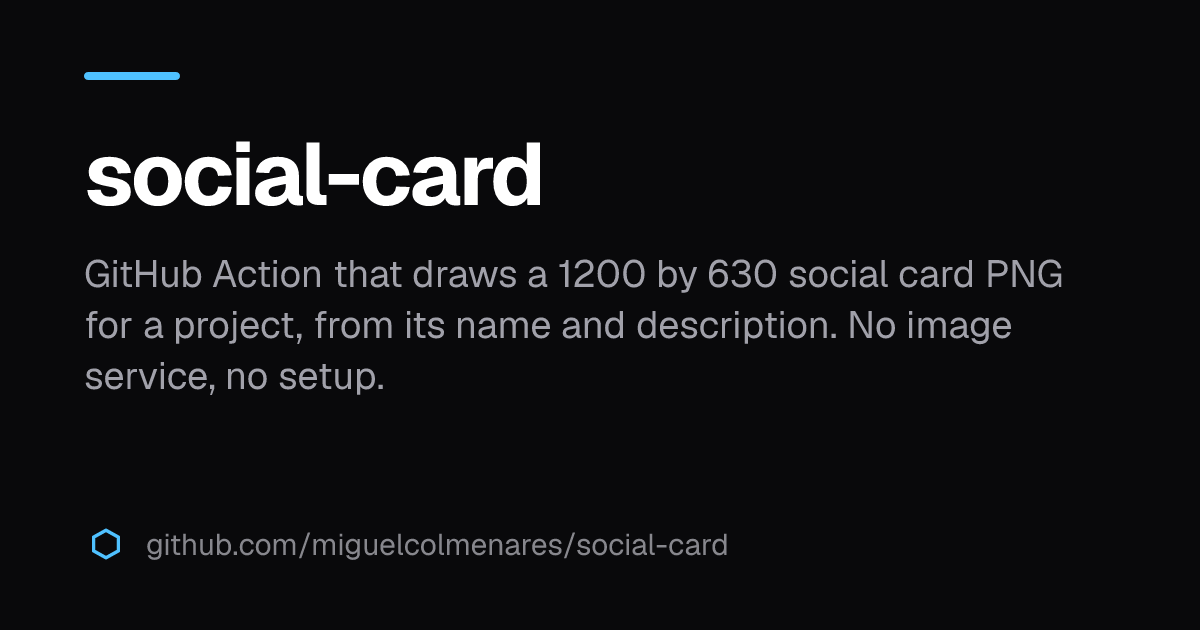
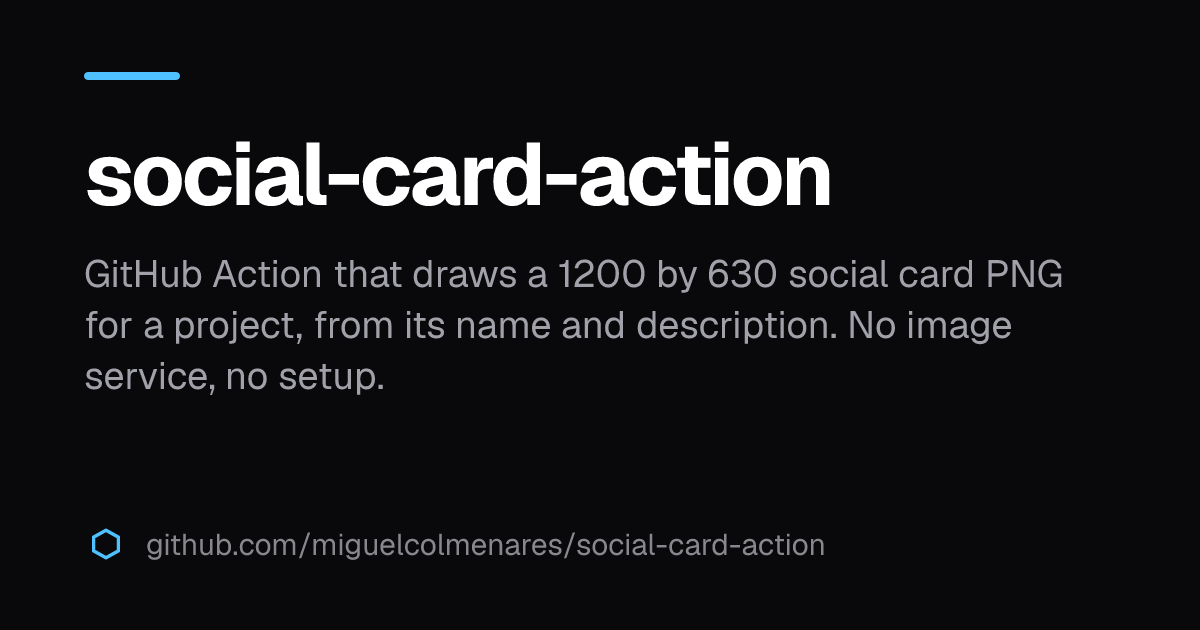
Rename the repository to social-card-action, and keep the release at 0.1.0 until it is tested

Changed region(s): [[0.4317, 0.2111, 0.7092, 0.3317], [0.6167, 0.8444, 0.6783, 0.9048]]

diff --git a/src/presentation/run.ts b/src/presentation/run.ts
@@ -35,7 +35,7 @@ export async function run(
   }
   const parsed = parseRequest(inputs as RequestEnv);
   if (!parsed.ok) {
-    log(`::error title=social-card::${parsed.error}`);
+    log(`::error title=social-card-action::${parsed.error}`);
     return 1;
   }
   try {
@@ -48,7 +48,9 @@ export async function run(
     }
     return 0;
   } catch (error) {
-    log(`::error title=social-card::${error instanceof Error ? error.message : String(error)}`);
+    log(
+      `::error title=social-card-action::${error instanceof Error ? error.message : String(error)}`,
+    );
     return 1;
   }
 }

diff --git a/src/__tests__/run.test.ts b/src/__tests__/run.test.ts
@@ -74,7 +74,7 @@ describe("run", () => {
     const lines: string[] = [];
     const code = await run(env({ SOCIAL_CARD_PATH: "../escape.png" }), (line) => lines.push(line));
     assert.equal(code, 1);
-    assert.match(lines.join("\n"), /^::error title=social-card::.*leaves the repository/);
+    assert.match(lines.join("\n"), /^::error title=social-card-action::.*leaves the repository/);
     assert.throws(() => readFileSync(join(workspace, "../escape.png")));
   });
 

diff --git a/CHANGELOG.md b/CHANGELOG.md
@@ -7,21 +7,6 @@ and this project adheres to [Semantic Versioning](https://semver.org/spec/v2.0.0
 
 ## [Unreleased]
 
-## [0.1.1] - 2026-11-05
-
-### Changed
-
-- **The action is called "Social Card Image" in the Marketplace.** The name `social-card` is taken by a GitHub account, and the Marketplace
-  needs a name that no action, user or organization has. The repository and the way to use it (`miguelcolmenares/social-card@v0.1.1`)
-  do not change.
-
-### Fixed
-
-- **The log no longer repeats the values of the inputs, and a path with a control character is refused.** The log repeated the path and
-  the colors the workflow gave as inputs. They are not secrets, but a value with a line break could write workflow commands or extra
-  lines of the outputs file. The messages now name the input and not its value, and a path with a line break or another control
-  character fails the step. This closes the two CodeQL alerts `js/clear-text-logging`.
-
 ## [0.1.0] - 2026-11-05
 
 ### Added
@@ -31,3 +16,7 @@ and this project adheres to [Semantic Versioning](https://semver.org/spec/v2.0.0
   those of the repository, and the five colors can be set. The output `changed` says whether the file is new or different, so a
   workflow commits only when there is something to commit. A path outside the repository, a path that is not a PNG and a color that
   is not hex fail the step with a message.
+- **It is called "Social Card Action" in the Marketplace, and the repository is `social-card-action`.** The name `social-card` belongs to a
+  GitHub account, and the Marketplace needs a name that no action, user or organization has.
+- **The log never repeats the values of the inputs, and a path with a control character is refused.** A value with a line break could
+  otherwise write workflow commands or extra lines of the outputs file. The messages name the input, not its value.

diff --git a/README.md b/README.md
@@ -1,10 +1,10 @@
-# social-card
+# social-card-action
 
 A GitHub Action that draws the social card of a project: a 1200 by 630 PNG with the name, the description and the host, in the dark
 style of [docs-sitekit](https://github.com/miguelcolmenares/docs-sitekit). It reads the repository, needs no image service and no
 design tool, and writes the file where you say.
 
-![A dark card with a blue bar, the name social-card in large white letters, its description in grey, and the address of the repository at the foot.](docs/example.png)
+![A dark card with a blue bar, the name social-card-action in large white letters, its description in grey, and the address of the repository at the foot.](docs/example.png)
 
 Use the picture for the link preview of a documentation site (`og:image`), or upload it as the social preview of the repository.
 
@@ -13,7 +13,7 @@ Use the picture for the link preview of a documentation site (`og:image`), or up
 ```yaml
 - uses: actions/checkout@v7
 - id: card
-  uses: miguelcolmenares/social-card@v0.1.1
+  uses: miguelcolmenares/social-card-action@v0.1.0
   with:
     path: public/social.png
 ```
@@ -62,7 +62,7 @@ jobs:
     steps:
       - uses: actions/checkout@v7
       - id: card
-        uses: miguelcolmenares/social-card@v0.1.1
+        uses: miguelcolmenares/social-card-action@v0.1.0
         with:
           path: site/public/social.png
       - if: steps.card.outputs.changed == 'true'
@@ -85,7 +85,7 @@ Draw the card into the `public/` folder of the site, and name it with `site.imag
 ```
 
 ```yaml
-- uses: miguelcolmenares/social-card@v0.1.1
+- uses: miguelcolmenares/social-card-action@v0.1.0
   with:
     path: site/public/social.png
 ```

diff --git a/AGENTS.md b/AGENTS.md
@@ -4,7 +4,7 @@ Context for any AI agent working in this repository.
 
 ## What this is
 
-`social-card`: a composite GitHub Action that draws a 1200 by 630 PNG social card from a project's name and description, in the
+`social-card-action`: a composite GitHub Action that draws a 1200 by 630 PNG social card from a project's name and description, in the
 dark style of docs-sitekit. MIT, written from scratch. Do not add code, text or configuration copied from other projects, and do
 not depend on private packages. It exists so that docs-sitekit sites (and any repository) get a social image without adding
 image dependencies to a site: the 40 MB of `satori`, `resvg` and Geist live here, in the runner of the action.

diff --git a/THIRD_PARTY_NOTICES.md b/THIRD_PARTY_NOTICES.md
@@ -1,6 +1,6 @@
 # Third-party notices
 
-social-card is MIT licensed. The action installs these packages from the public npm registry when it runs. They are not copied into
+social-card-action is MIT licensed. The action installs these packages from the public npm registry when it runs. They are not copied into
 this repository, and each keeps its own license.
 
 | Package                                                         | License | Used for                   |

diff --git a/CONTRIBUTING.md b/CONTRIBUTING.md
@@ -7,8 +7,8 @@ Thanks for helping. This is a small action with strict checks, so most of the wo
 You need Node 22.18 or newer, which runs the TypeScript sources without a build step.
 
 ```bash
-git clone https://github.com/miguelcolmenares/social-card.git
-cd social-card
+git clone https://github.com/miguelcolmenares/social-card-action.git
+cd social-card-action
 npm ci
 npm test
 ```

diff --git a/.github/copilot-instructions.md b/.github/copilot-instructions.md
@@ -1,4 +1,4 @@
-# Copilot repository instructions: social-card
+# Copilot repository instructions: social-card-action
 
 These instructions apply to every Copilot request in this repository. The full context is in [`AGENTS.md`](../AGENTS.md); read it
 before non-trivial work.
